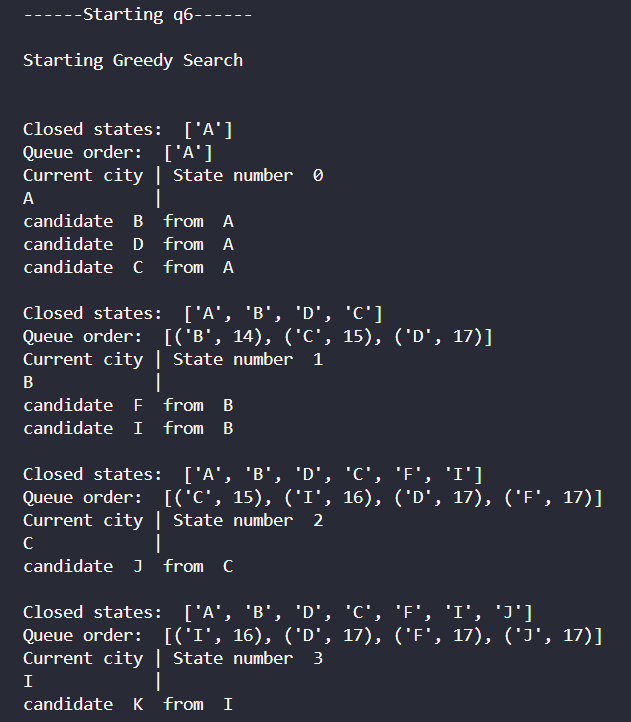
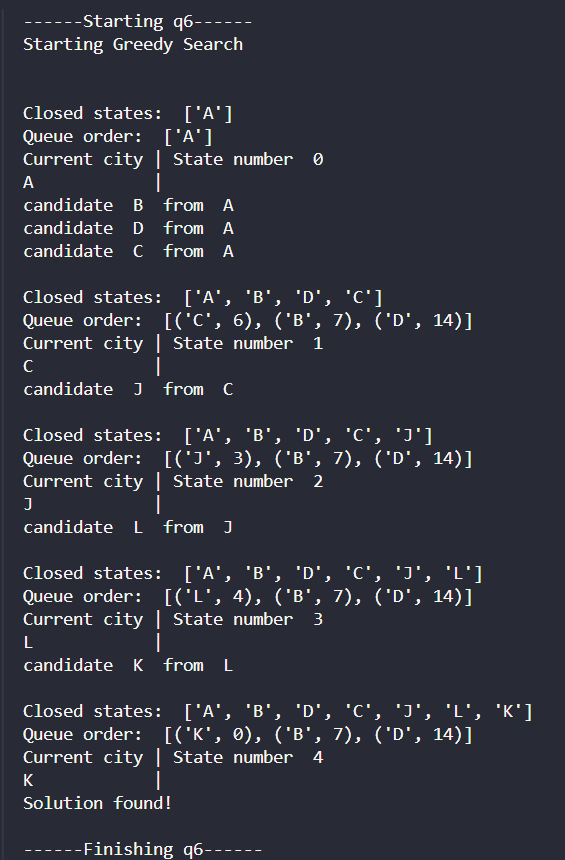
apparently, q6 was q7, so I changed the file name and did a q6 too

diff --git a/q7.py b/q7.py
@@ -1,22 +1,13 @@
 """
-(Exerc. 6) Vamos considerar novamente o Problema das Rotas, onde rotas entre cidades são especificadas na Figura 2.
-Figura 2 – Mapa de rotas entre cidades, onde as arestas do grafo apresentam os valores de custo g(n) de deslocamento 
-(as vias são bidirecionais) 
-Como heurística h(n), usaremos a distância em linha reta entre a cidade corrente e a cidade que se deseja atingir. Vamos 
-encontrar uma rota que leve da cidade A à cidade K e, para facilitar a exposição, vamos definir a função heurística h(n) 
-da seguinte forma:  
-h(a) = 15, h(b) = 7, h(c) = 6, h(d) = 14, h(e) = 15, h(f) = 7, h(g) = 8, h(h) = 5, h(i) = 5, h(j) = 3, h(k) = 0, h(l) = 4 
-Para o Problema das Rotas, apresentar: 
-a) o passo a passo o estado das listas de novos abertos e nodos fechados para o algoritmo de busca gulosa pela melhor 
-escolha para s0 = a e G = [k] 
-b) desenhe a árvore de busca produzida quando o algoritmo de busca gulosa pela melhor escolha é chamado com s0 = 
-a e G = [k].  
-5 
-Neste exercício, o algoritmo deve usar os valores heurísticos h(n) apresentados acima. 
+(Exerc. 7) Para o Problema das Rotas especificado no Exercício 6, apresentar: 
+a) o passo a passo o estado das listas de novos abertos e nodos fechados usados pelo algoritmo A* para s0 = a e G = [k] 
+b) desenhe a árvore de busca produzida quando o algoritmo A* é chamado com s0 = a e G = [k].  
+Neste exercício, o algoritmo deve usar os valores de custo g(n) e heurísticos h(n) apresentados anteriormente. 
 c) Implementar algoritmos para solucionar as questões propostas. Entregar (i) print (em pdf) do passo a passo de 
 execução dos algoritmos e das soluções do problema e (ii) código fonte das implementações: legível, identado, variáveis 
 nomeadas de forma compreensível, comentado - padrão JavaDoc ou Doxigen, e orientado a objetos. 
 """
+
 class State:
     def __init__(self, source, destiny, cost):
         self.source = source
@@ -50,6 +41,7 @@ class StateManager:
         self.addStates()
         self.current = initial
         self.goal = final
+        self.cost = 0
         self.counter = 0
 
     def addStates(self):
@@ -94,6 +86,7 @@ class StateManager:
             
             self.generateDestiniesG()
             self.current = self.queueCities[0][0]
+            self.cost = self.queueCities[0][1] - self.heuristic[self.current]
 
         print("\nFinishing Greedy Search\n")
 
@@ -112,16 +105,16 @@ class StateManager:
         self.queueCities = sorted(self.queueCities, key = lambda city: city[1])
 
     def evalCost(self, state):
-        """Evalues the cost of the state by the following formula: (Heuristic cost)"""
-        return self.heuristic[state.destiny]
+        """Evalues the cost of the state by the following formula: (Total current cost) + (Transition cost) + (Heuristic cost)"""
+        return self.cost + state.cost + self.heuristic[state.destiny]
 
     def isStateFinal(self):
         return self.current == self.goal
 
 if __name__ == '__main__':
-    print("\n------Starting q6------")
+    print("\n------Starting q7------")
 
     controlB = StateManager('A', 'K')
     controlB.greedySearch()
 
-    print("\n------Finishing q6------")
+    print("\n------Finishing q7------")
